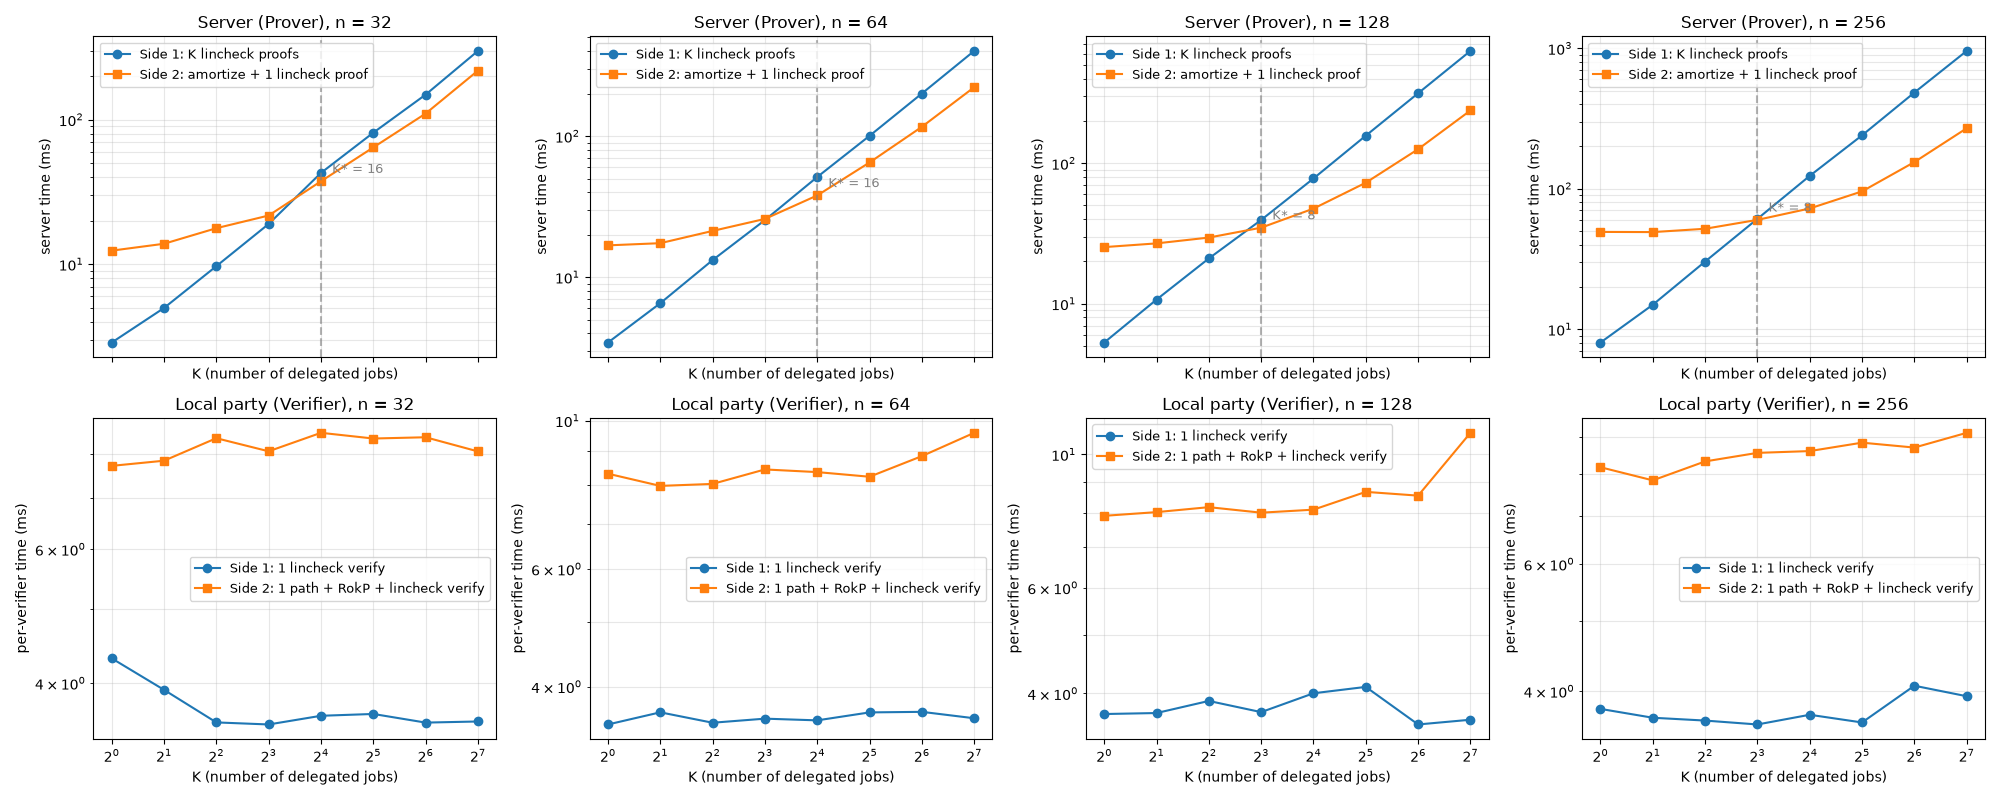
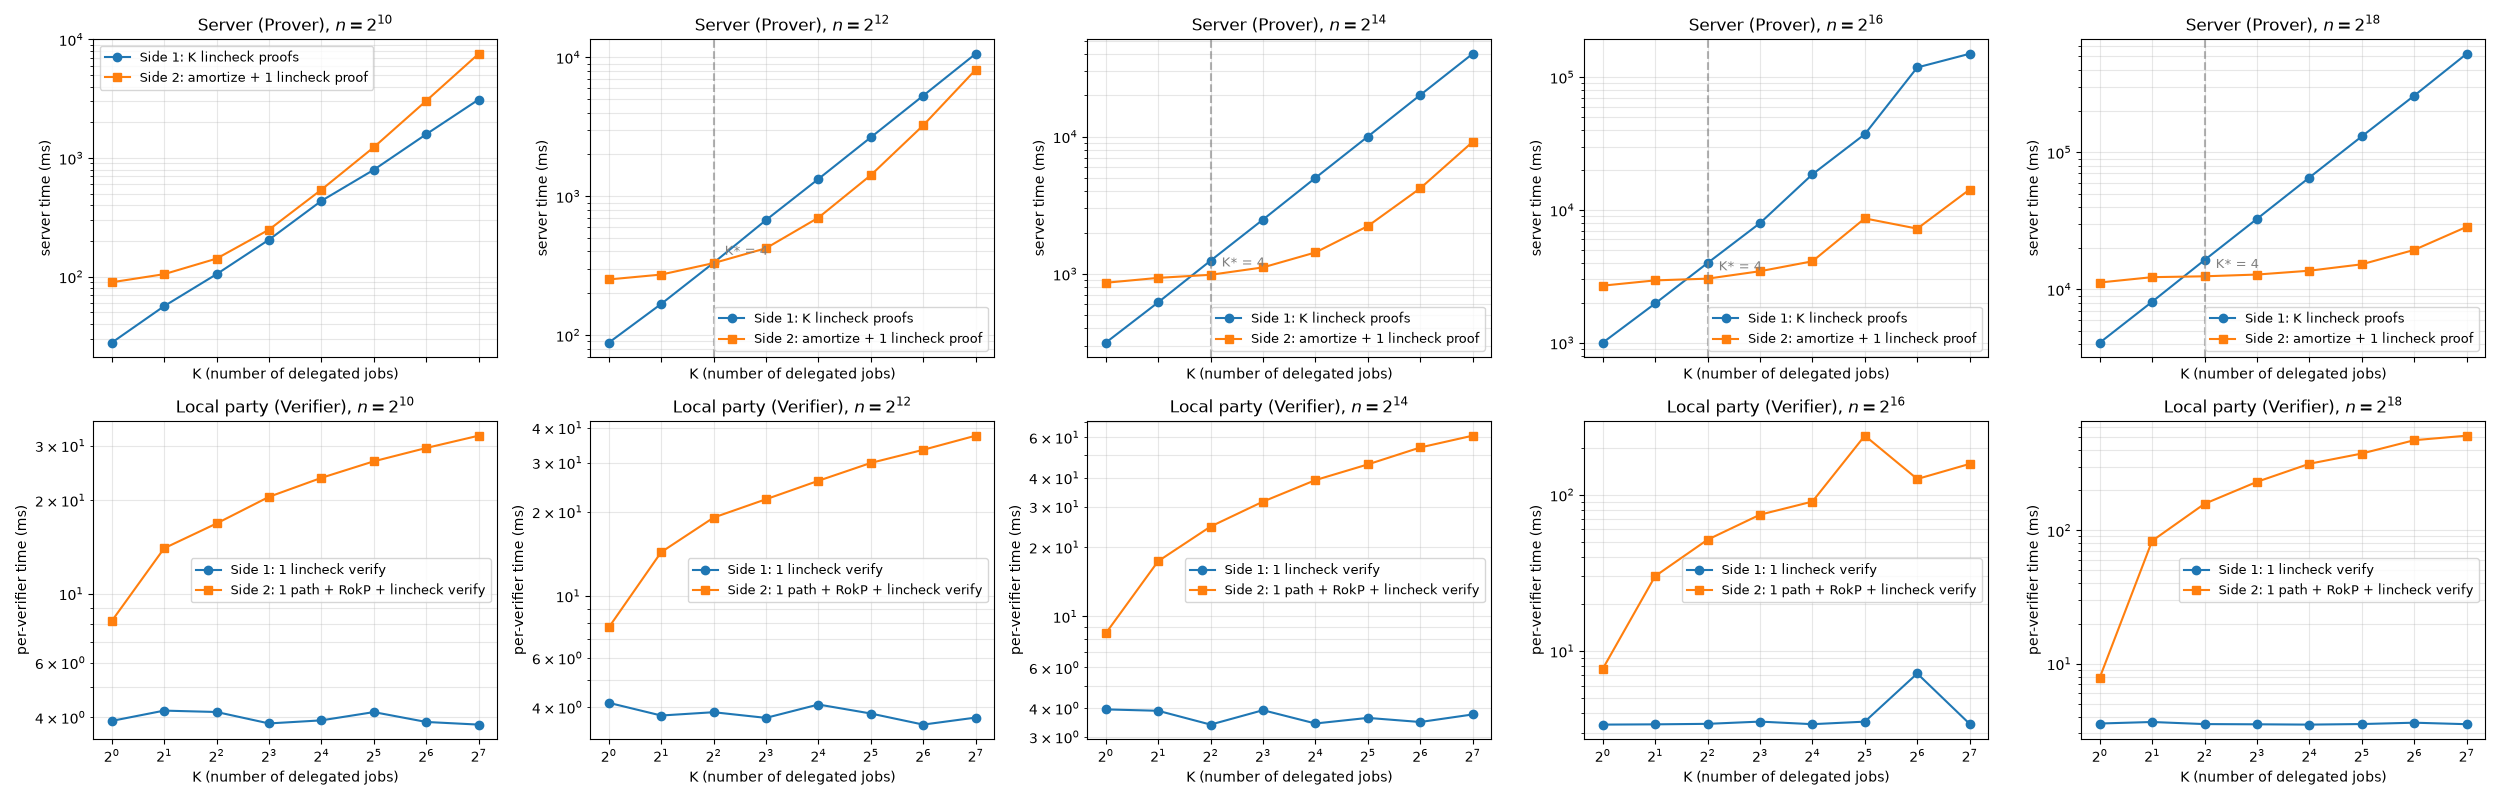
Benchmarks for n=2^10 to n=2^18 with results.

diff --git a/examples/bench_csv.rs b/examples/bench_csv.rs
@@ -394,7 +394,9 @@ fn main() {
         }
     }
 
-    let body = rows.join("\n");
+    // Trailing newline so the file is a well-formed CSV and stays parseable
+    // when concatenated with other runs (each row on its own physical line).
+    let body = format!("{}\n", rows.join("\n"));
     match args.out {
         Some(path) => {
             File::create(&path)
@@ -403,6 +405,6 @@ fn main() {
                 .expect("write output");
             eprintln!("wrote {path}");
         }
-        None => println!("{body}"),
+        None => print!("{body}"),
     }
 }
